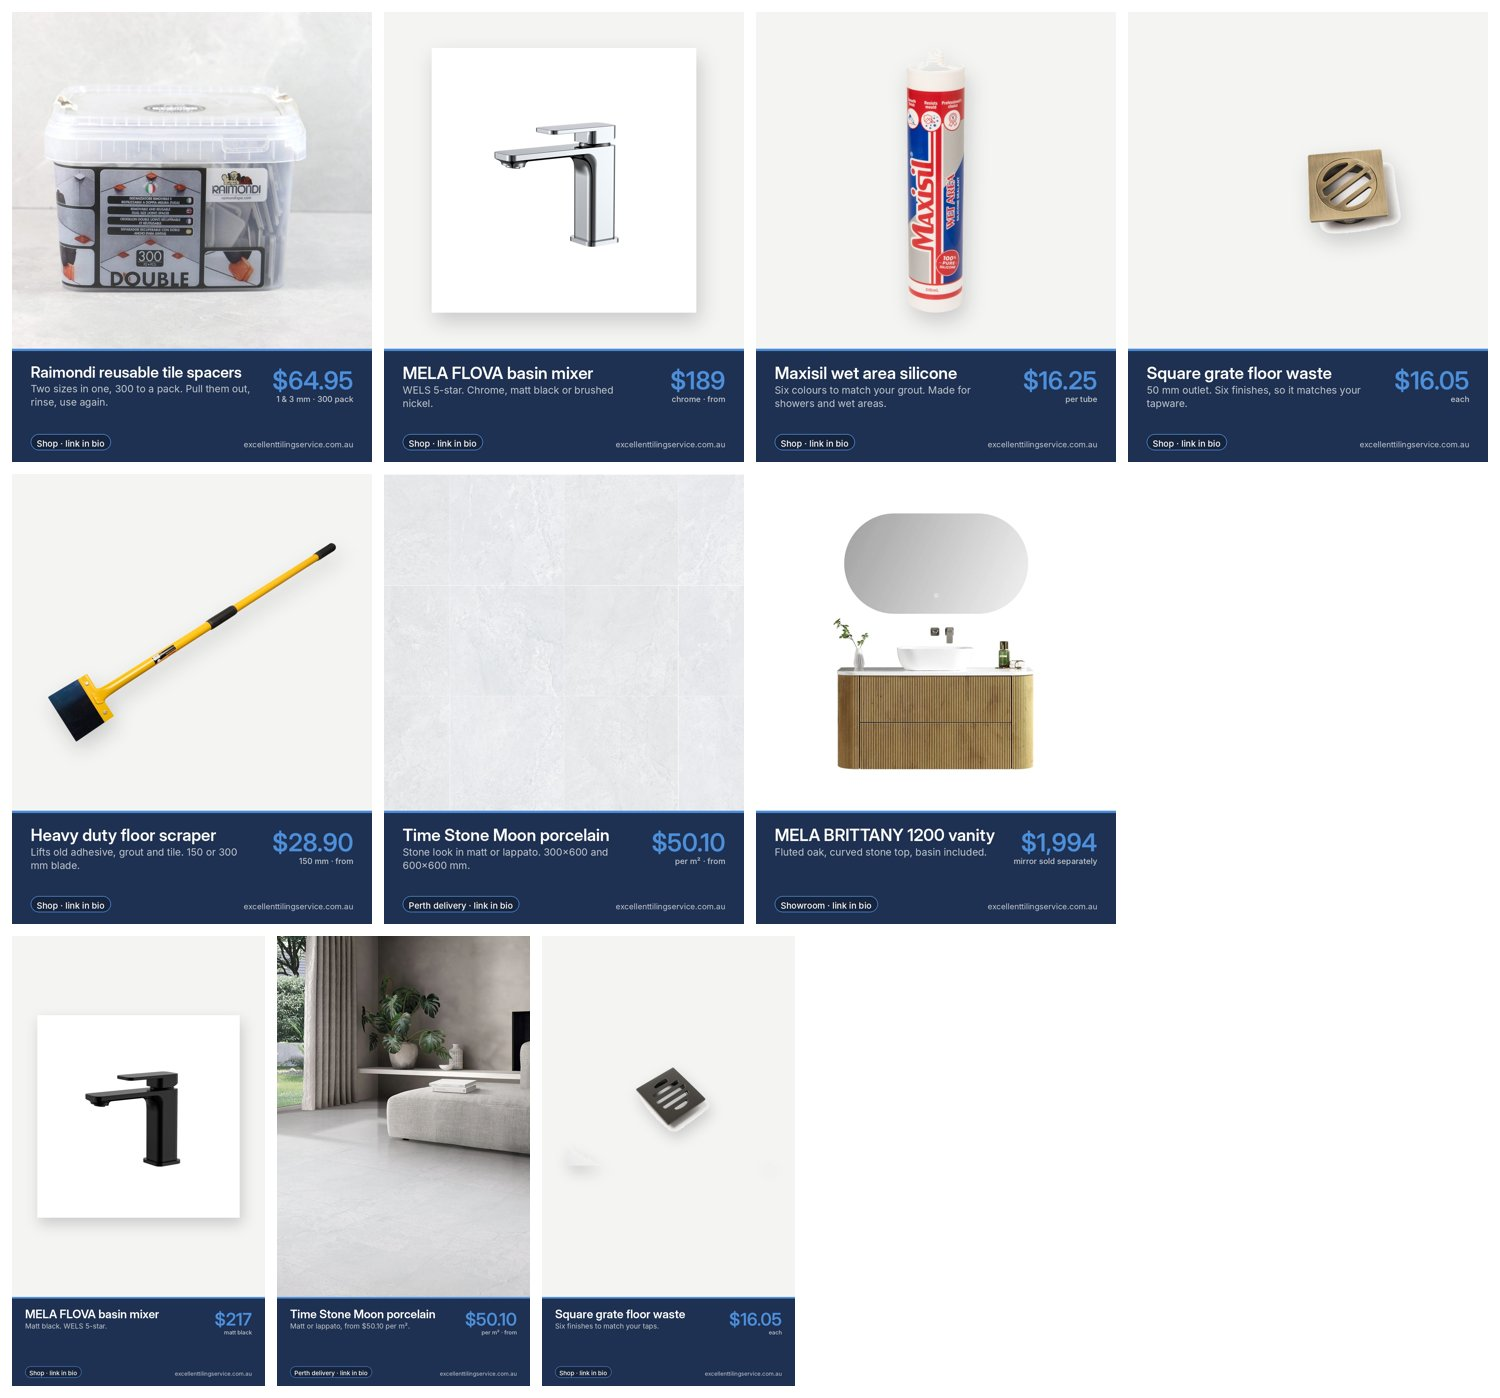
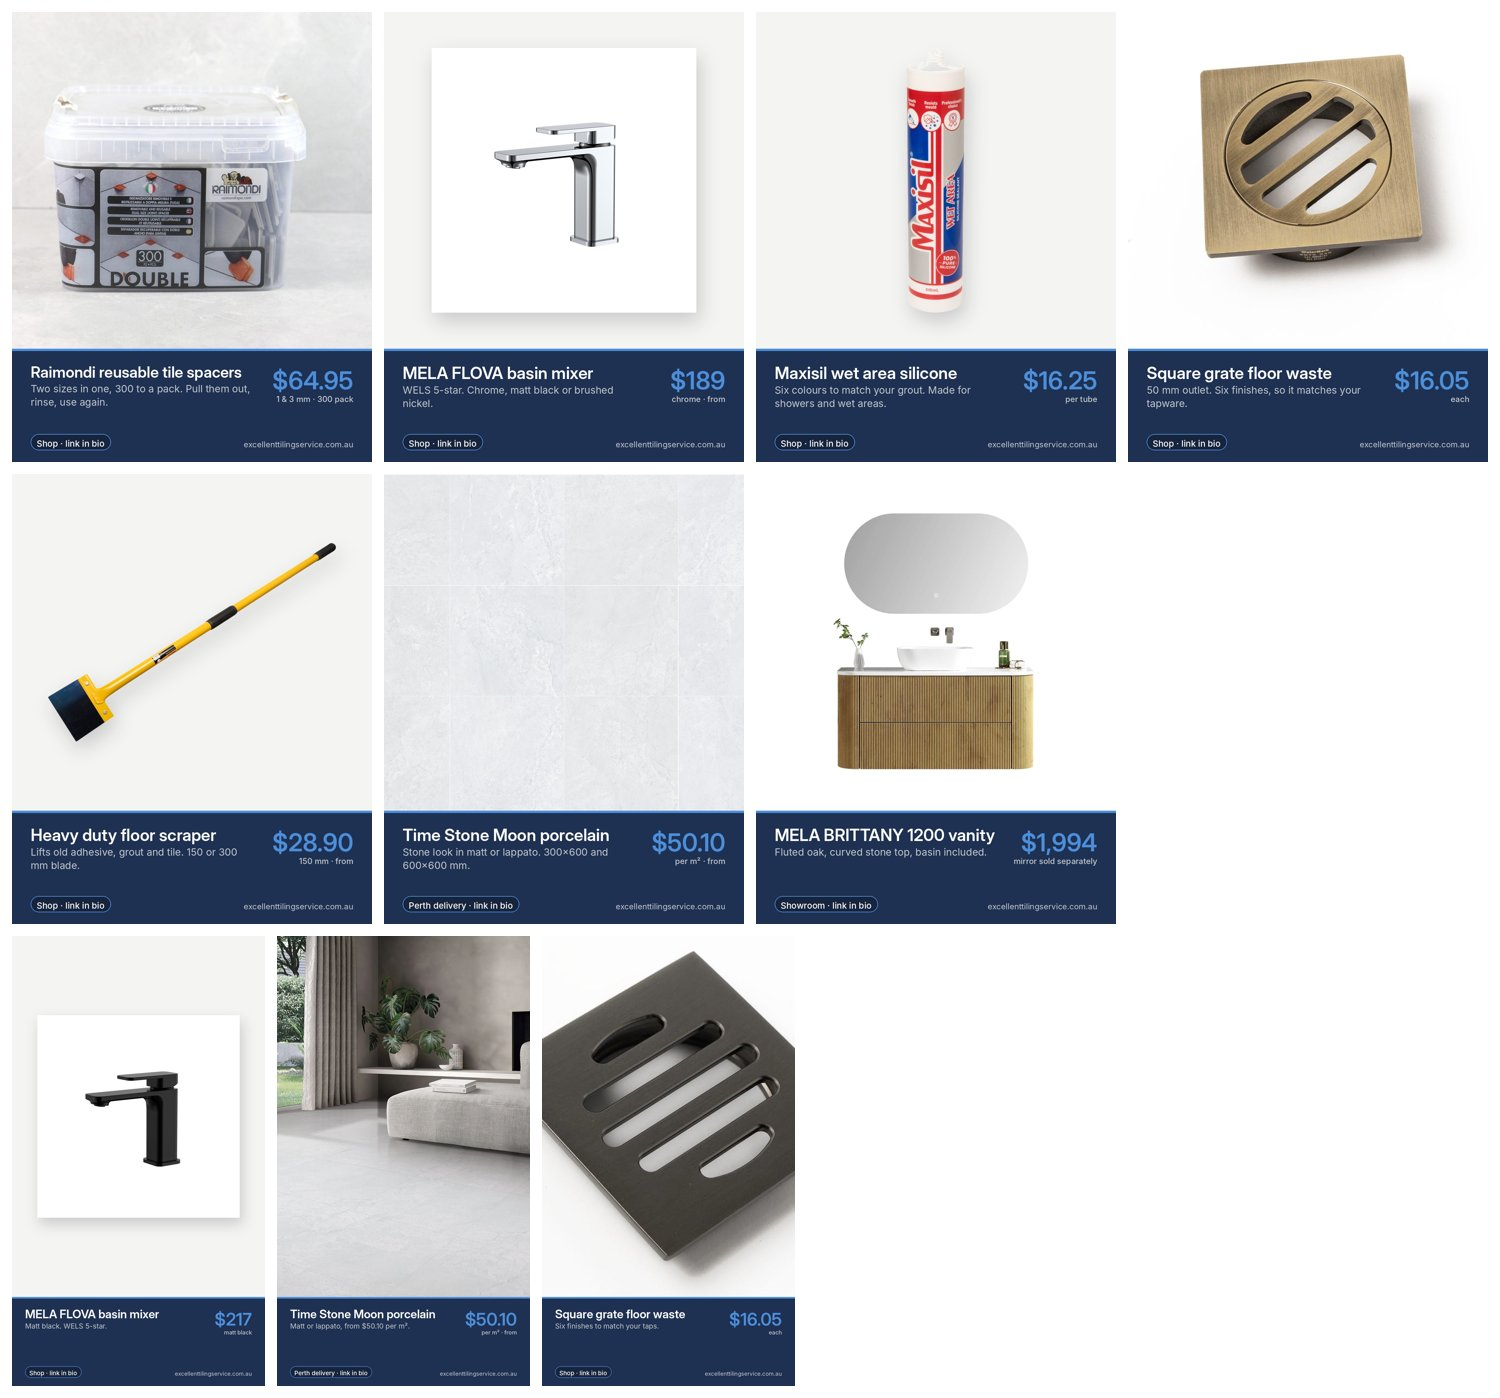
Premium posts: zoom crop for the floor waste photos
Claude-Session: https://claude.ai/code/session_019YHSZ6tuDzkheZGj9ycKcY

Changed region(s): [[0.3373, 0.6767, 0.552, 0.9227], [0.7973, 0.0308, 0.9813, 0.2153]]

diff --git a/marketing/finish-it-right/premium/make_premium.py b/marketing/finish-it-right/premium/make_premium.py
@@ -68,6 +68,10 @@ def build(p, W, H):
     band_h = 340 if H == 1350 else 380
     bg = hexrgb(p.get('bg', '#F4F5F3'))
     im = load(p['image'])
+    z = p.get('zoom')  # keep only the central fraction of the photo before cropping
+    if z:
+        cw, ch = int(im.width * z), int(im.height * z)
+        im = im.crop(((im.width - cw) // 2, (im.height - ch) // 2, (im.width + cw) // 2, (im.height + ch) // 2))
     photo_h = H - band_h
     photo = cover(im, W, photo_h) if p.get('fit', 'cover') == 'cover' else studio(im, W, photo_h, bg)
     out = Image.new('RGB', (W, H), NAVY); out.paste(photo, (0, 0))
